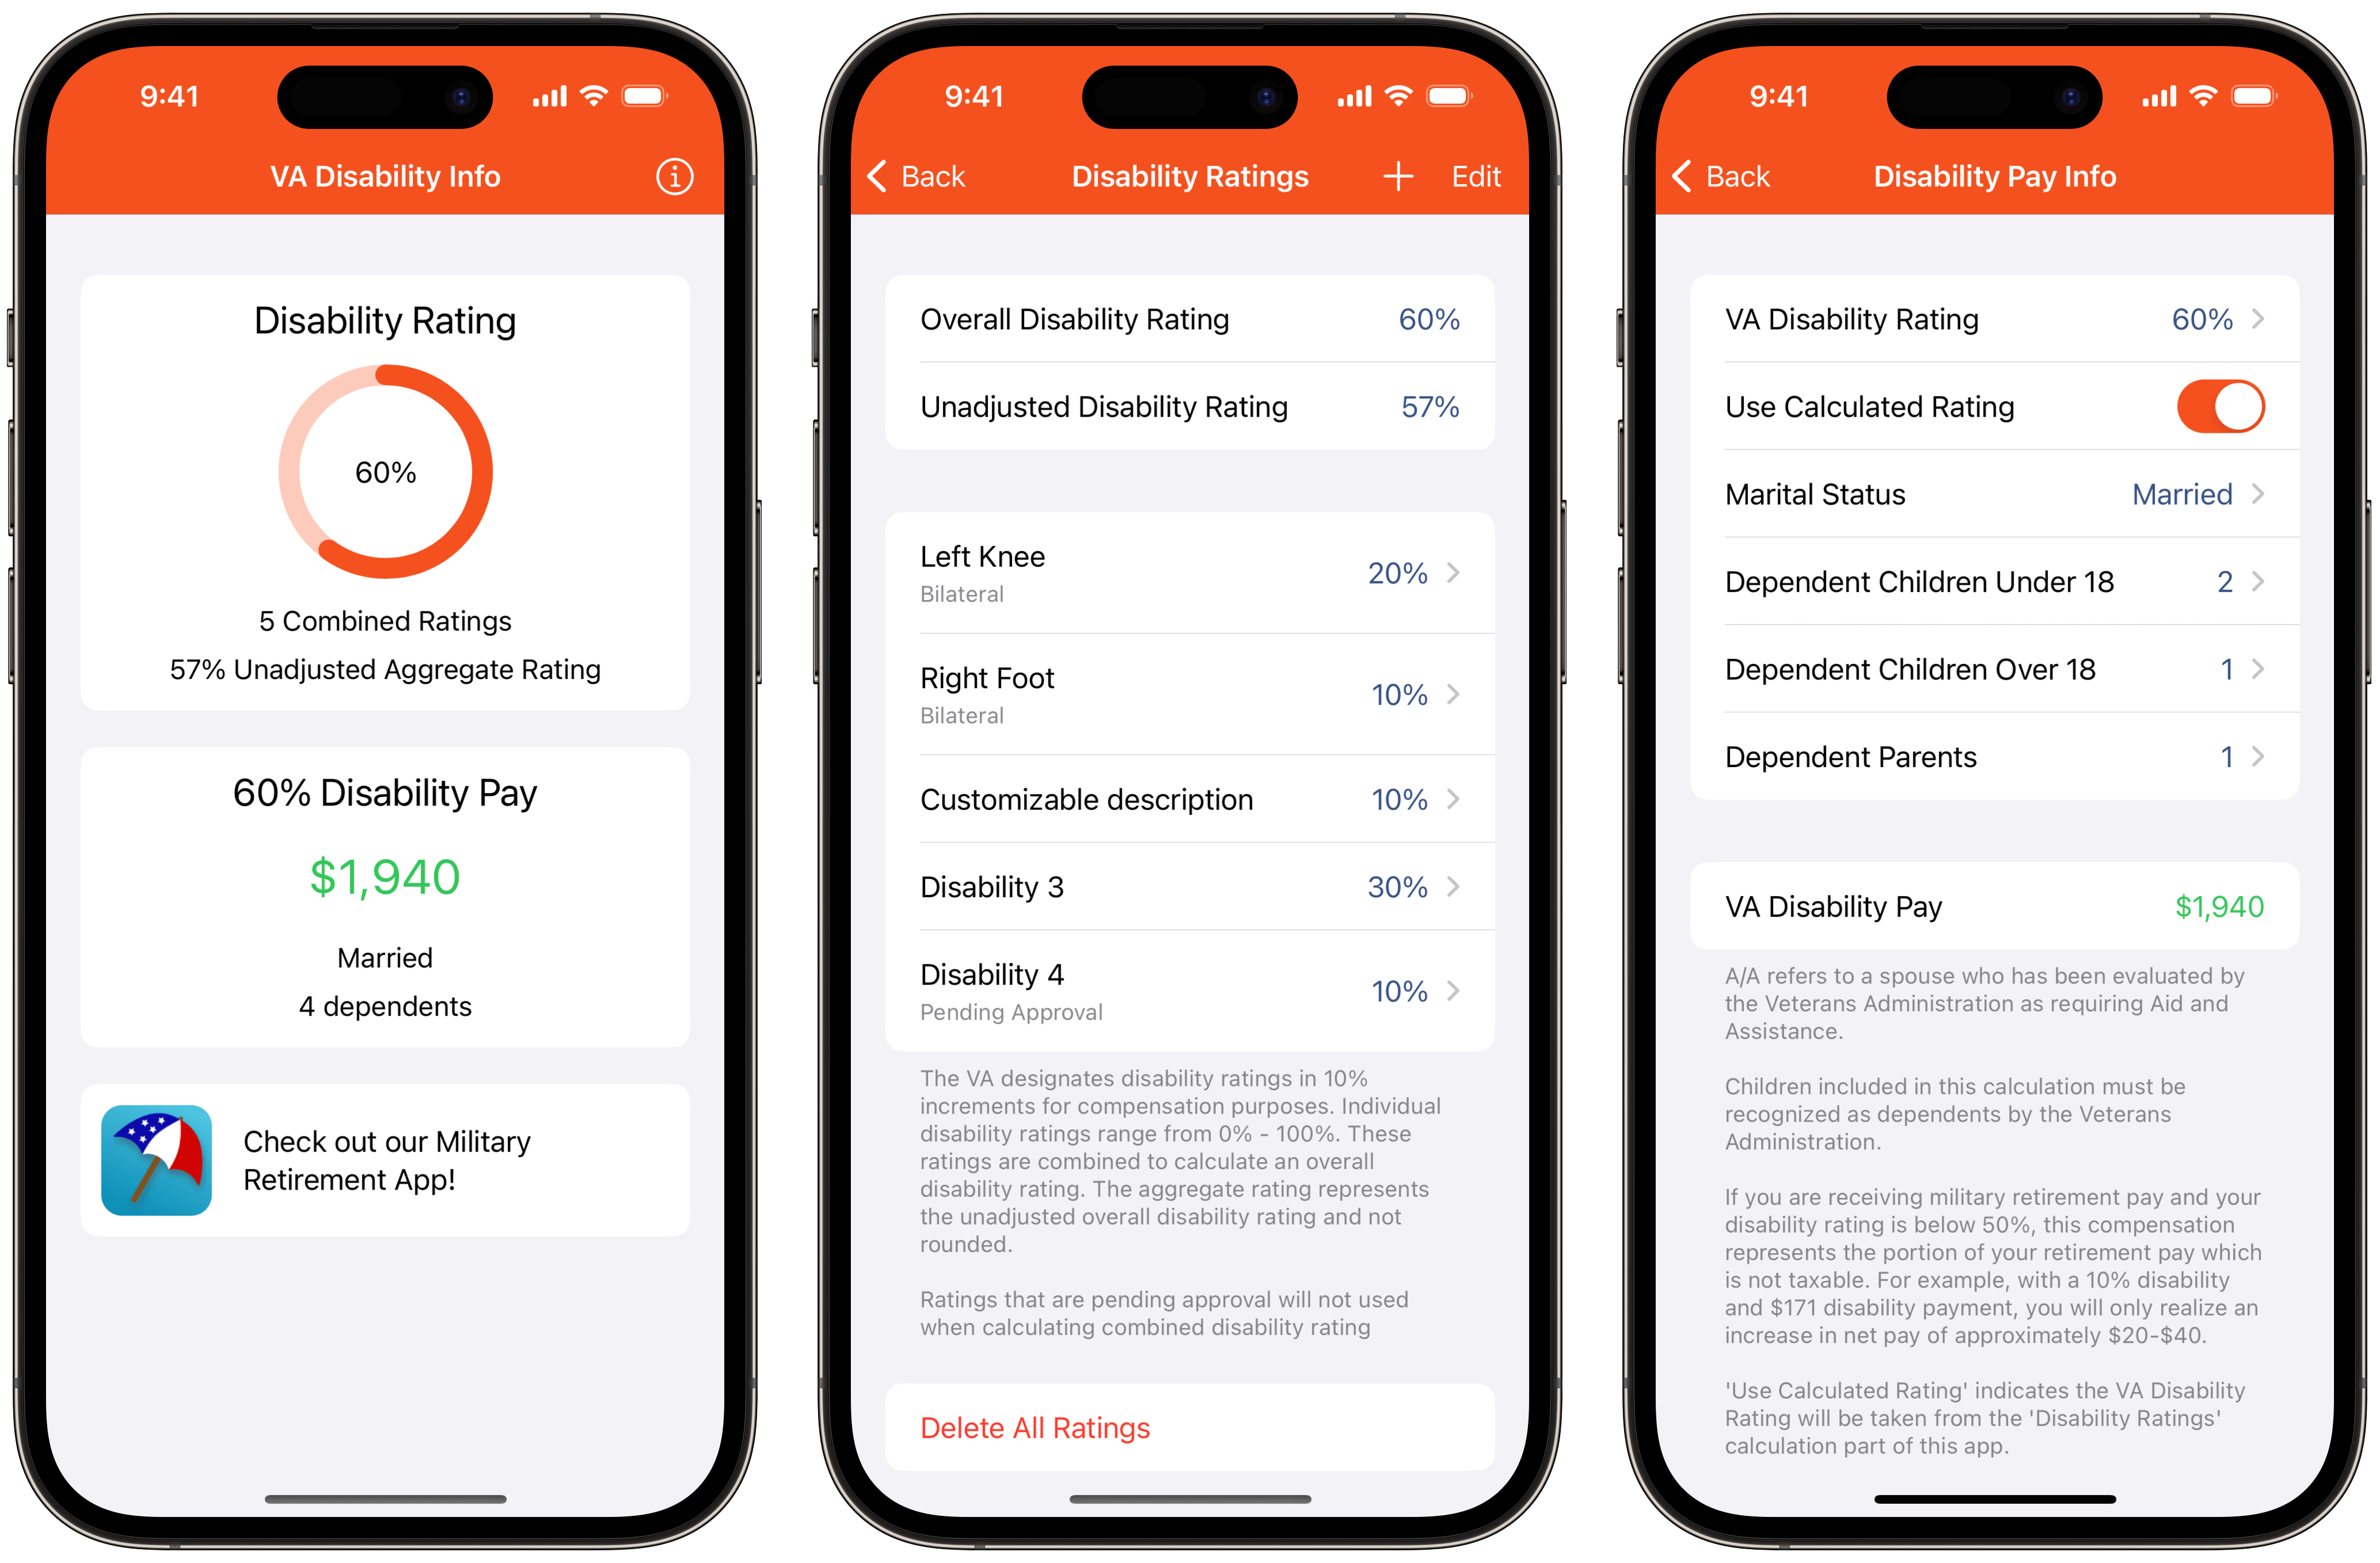
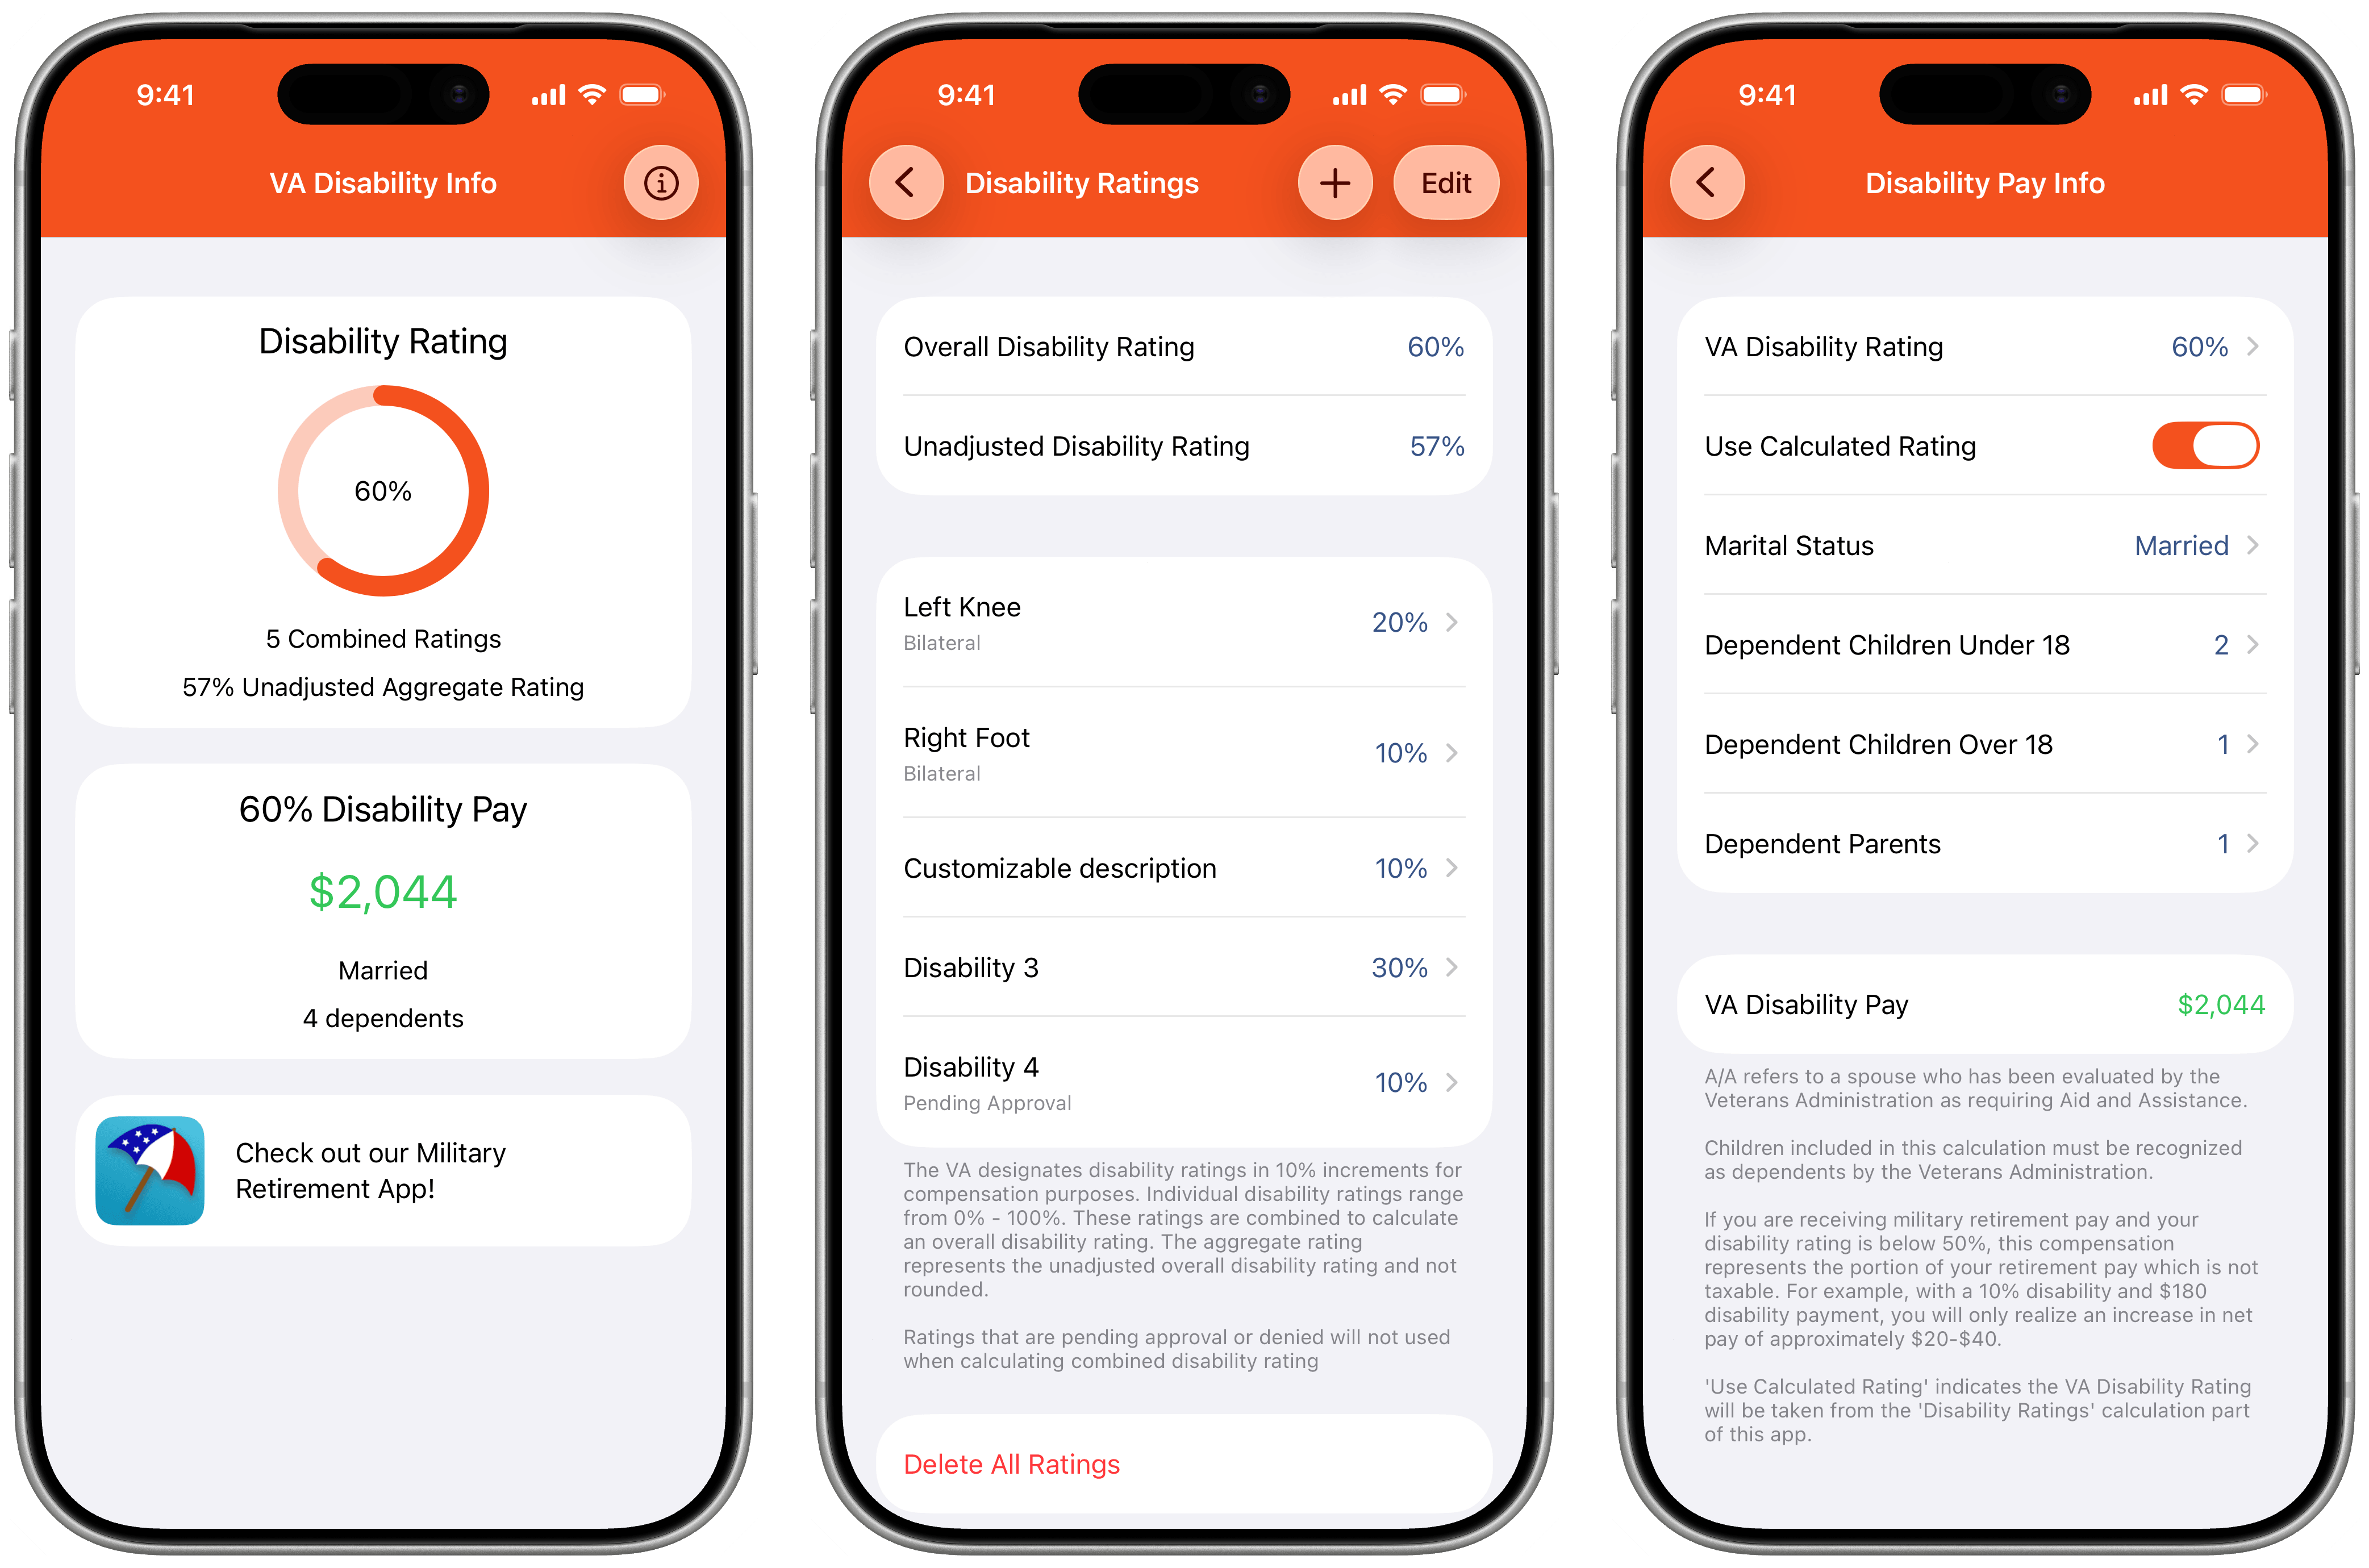
Update screenshots and VA Disability Pay android link and some minor styles

diff --git a/_sass/_layout.scss b/_sass/_layout.scss
@@ -1,17 +1,6 @@
 // Site Header
 .site-header {
-    min-height: 200px;
-    max-height: 300px;
     background-color: $brand-color;
-    background-image: url('');
-    background-size: cover;
-    background-position: center -100px;
-    background-attachment: fixed;
-
-    @include media-query($on-palm) {
-        min-height: 100px;
-        background-position: center -200px;
-    }
 }
 
 .site-header a, a h1:hover {
@@ -20,22 +9,15 @@
 
 .site-header h1 {
     display: block;
-    font-size: 3em !important;
-    line-height: 80px;
+    font-size: 2em !important;
     letter-spacing: 3px;
     text-align: center;
     padding-top: 0;
     clear: both;
     text-transform: uppercase;
 
-    @include media-query($on-palm) {
-        font-size:60px !important;
-        line-height: 60px !important;
-        letter-spacing: 0px;
-    }
-
     @media only screen and (max-width: 500px) {
-        font-size: 1.75em !important;
+        font-size: 1.5em !important;
     }
 }
 
@@ -44,11 +26,6 @@
     padding: 0.3em 0.5em;
     margin-top: 20px;
     display: inline-block;
-
-    @include media-query($on-palm) {
-        margin: 10px 10px;
-        padding: 0.15em 0.4em;
-    }
 }
 
 .site-nav {
@@ -133,10 +110,6 @@
     color: #454545;
     display: block;
     width: 100%;
-
-    @include media-query($on-palm) {
-        font-size: 1.33em;
-    }
 }
 
 .post-meta {

diff --git a/css/main.scss b/css/main.scss
@@ -22,18 +22,8 @@ $grey-color-dark:  darken($grey-color, 25%);
 
 // Width of the content area
 $content-width:    75%;
-$on-palm:          75%;
 $on-laptop:        75%;
 
-
-
-// Using media queries with like this:
-// @include media-query($on-palm) {
-//     .wrapper {
-//         padding-right: $spacing-unit / 2;
-//         padding-left: $spacing-unit / 2;
-//     }
-// }
 @mixin media-query($device) {
     @media screen and (max-width: $device) {
         @content;

diff --git a/va-disability-pay-app.md b/va-disability-pay-app.md
@@ -6,8 +6,13 @@ layout: default
     <h1 class="app-name">VA Disability Pay</h1>
     <div class="download-links">
         <div class="link apple-link">
-            <a href="https://apps.apple.com/us/app/va-disability-pay/id1470561883?itsct=apps_box_badge&amp;itscg=30200">
-                <img src="https://tools.applemediaservices.com/api/badges/download-on-the-app-store/black/en-us?size=250x83&amp;releaseDate=1564704000&h=9df428e7c9042df1da65c9112307535e" alt="Download on the App Store">
+            <a href="https://apps.apple.com/us/app/va-disability-pay/id1470561883?itsct=apps_box_badge&amp;itscg=30200" target="_blank">
+                <img src="https://toolbox.marketingtools.apple.com/api/badges/download-on-the-app-store/black/en-us?size=250x83&releaseDate=1348617600&h=097d4c06207b7c833c551c7582859ef3" alt="Download on the App Store">
+            </a>
+        </div>
+        <div class="link android-link">
+            <a href="https://play.google.com/store/apps/details?id=com.lynnfieldllc.vadisabilitypay" target="_blank">
+                <img alt="Get it on Google Play" src="https://play.google.com/intl/en_us/badges/static/images/badges/en_badge_web_generic.png" draggable="false" />
             </a>
         </div>
     </div>

diff --git a/military-retire-app.md b/military-retire-app.md
@@ -6,13 +6,13 @@ layout: default
     <h1 class="app-name">Military Retirement</h1>
     <div class="download-links">
         <div class="link apple-link">
-            <a href="https://apps.apple.com/app/apple-store/id563082328?pt=1614325&ct=military-retirement-webpage&mt=8">
-                <img src="https://tools.applemediaservices.com/api/badges/download-on-the-app-store/black/en-us?size=250x83&amp;releaseDate=1348617600&h=097d4c06207b7c833c551c7582859ef3" alt="Download on the App Store" draggable="false">
+            <a href="https://apps.apple.com/app/apple-store/id563082328?pt=1614325&ct=military-retirement-webpage&mt=8" target="_blank">
+                <img src="https://toolbox.marketingtools.apple.com/api/badges/download-on-the-app-store/black/en-us?size=250x83&releaseDate=1348617600&h=097d4c06207b7c833c551c7582859ef3" alt="Download on the App Store" draggable="false">
             </a>
         </div>
         <div class="link android-link">
-            <a href="https://play.google.com/store/apps/details?id=com.LynnfieldLLC.MilitaryRetire">
-                <img alt="Get it on Google Play" src="https://play.google.com/intl/en_us/badges/images/generic/en_badge_web_generic.png" draggable="false" />
+            <a href="https://play.google.com/store/apps/details?id=com.LynnfieldLLC.MilitaryRetire" target="_blank">
+                <img alt="Get it on Google Play" src="https://play.google.com/intl/en_us/badges/static/images/badges/en_badge_web_generic.png" draggable="false" />
             </a>
         </div>
     </div>